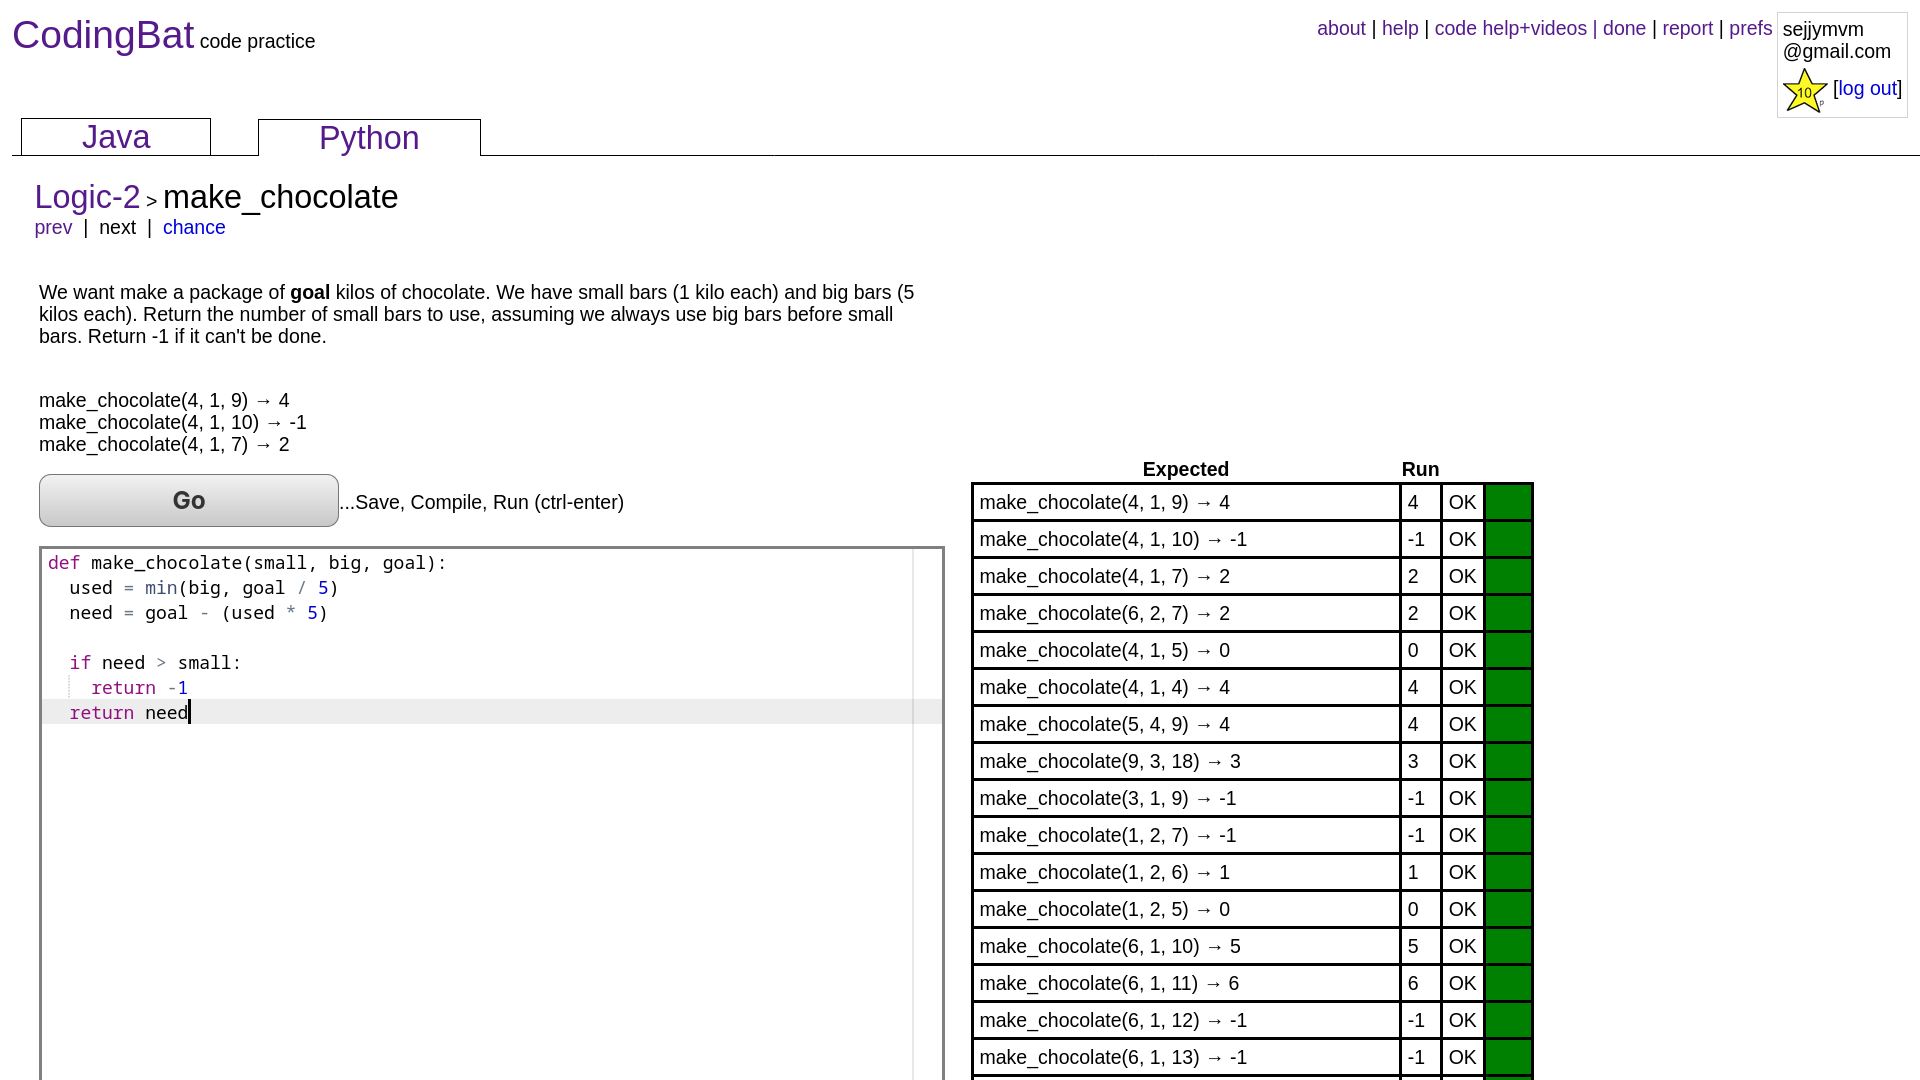
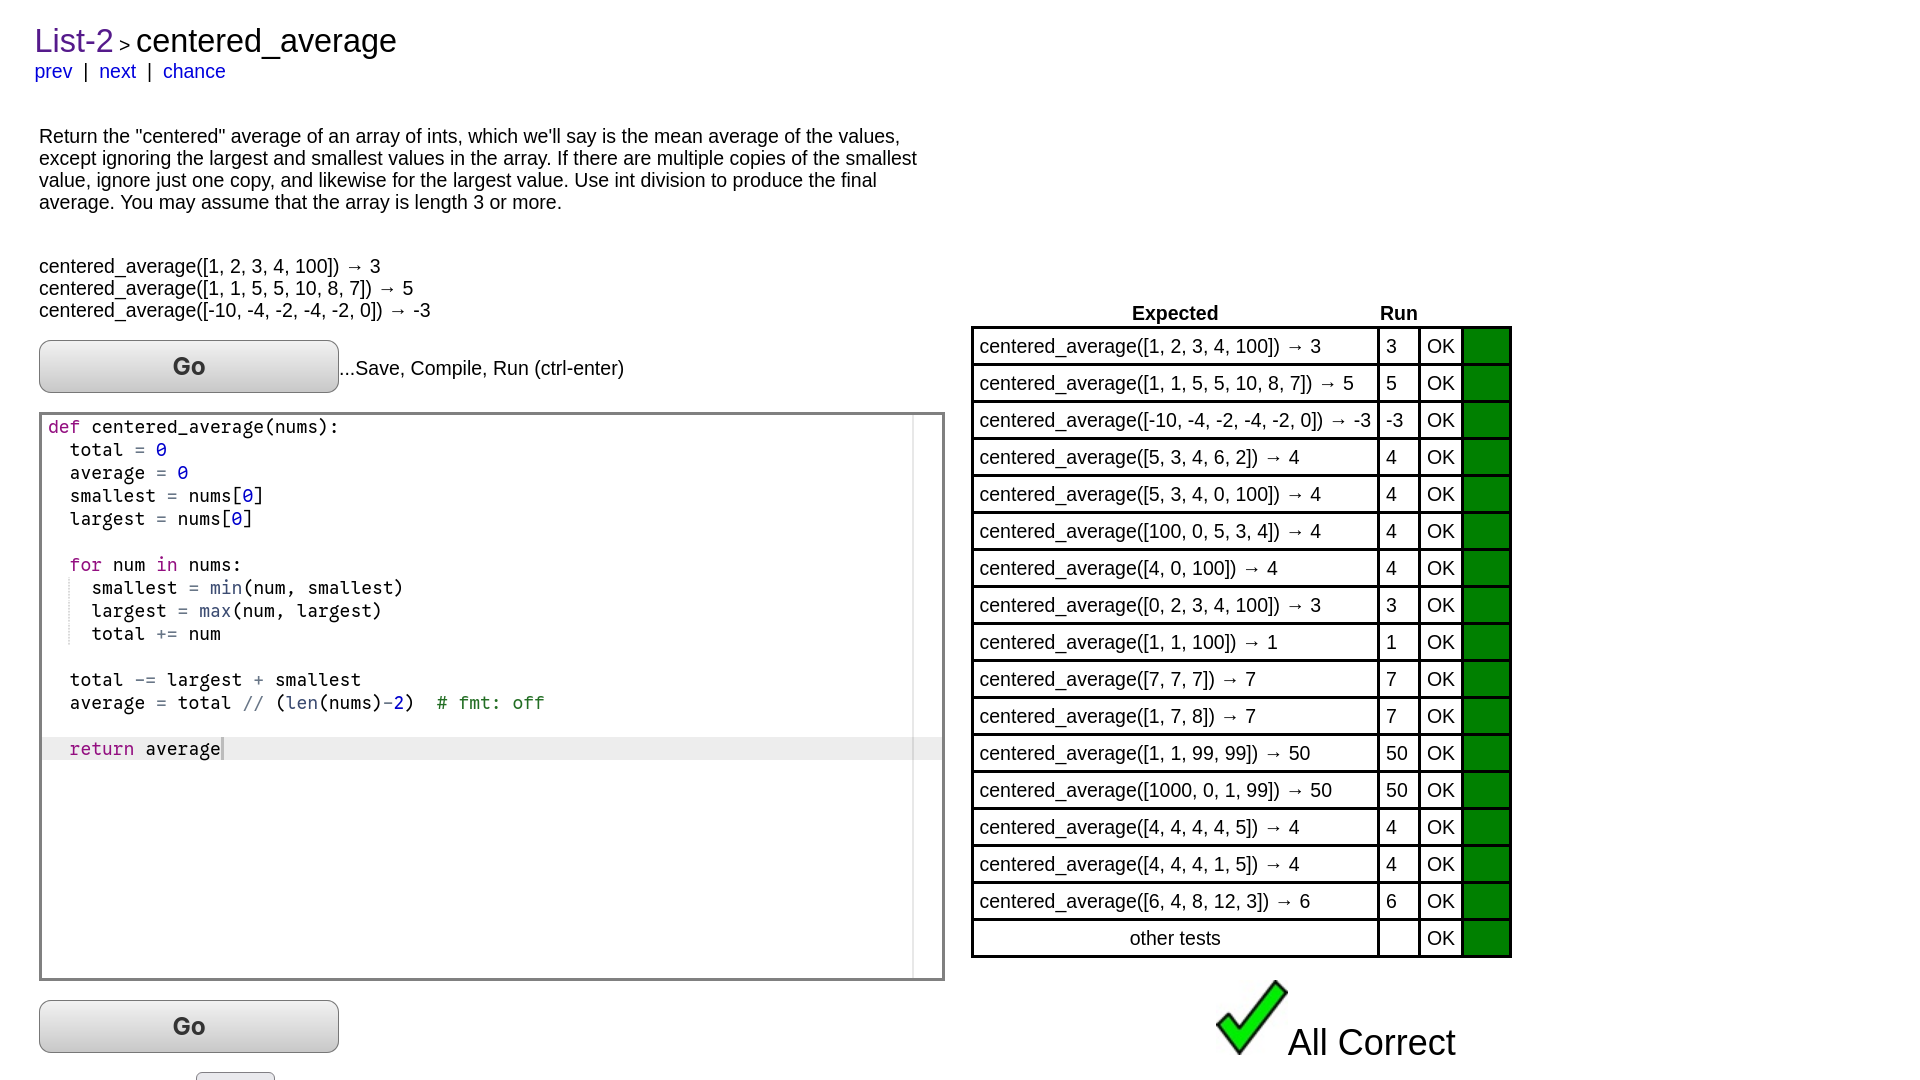
update docs

diff --git a/README.md b/README.md
@@ -2,7 +2,7 @@
 
 ## codingbat-python
 
-Solutions to CodingBat Python problems
+Solutions to [CodingBat Python](https://codingbat.com/python) problems
 
 | ![screenshot](./screenshot.png) |
 | :-----------------------------: |
@@ -13,11 +13,12 @@ Solutions to CodingBat Python problems
 
 ### Structure
 
-```
+```text
 .
 ├── 01-warmup-1
 │   ├── 01-sleep_in.py
 │   ├── 02-monkey_trouble.py
-│   └── ...    # other problems
-└── ...    # other sections
+│   ├── 03-sum_double.py
+│   └── ...    (other problems)
+└── ...    (other sections)
 ```
